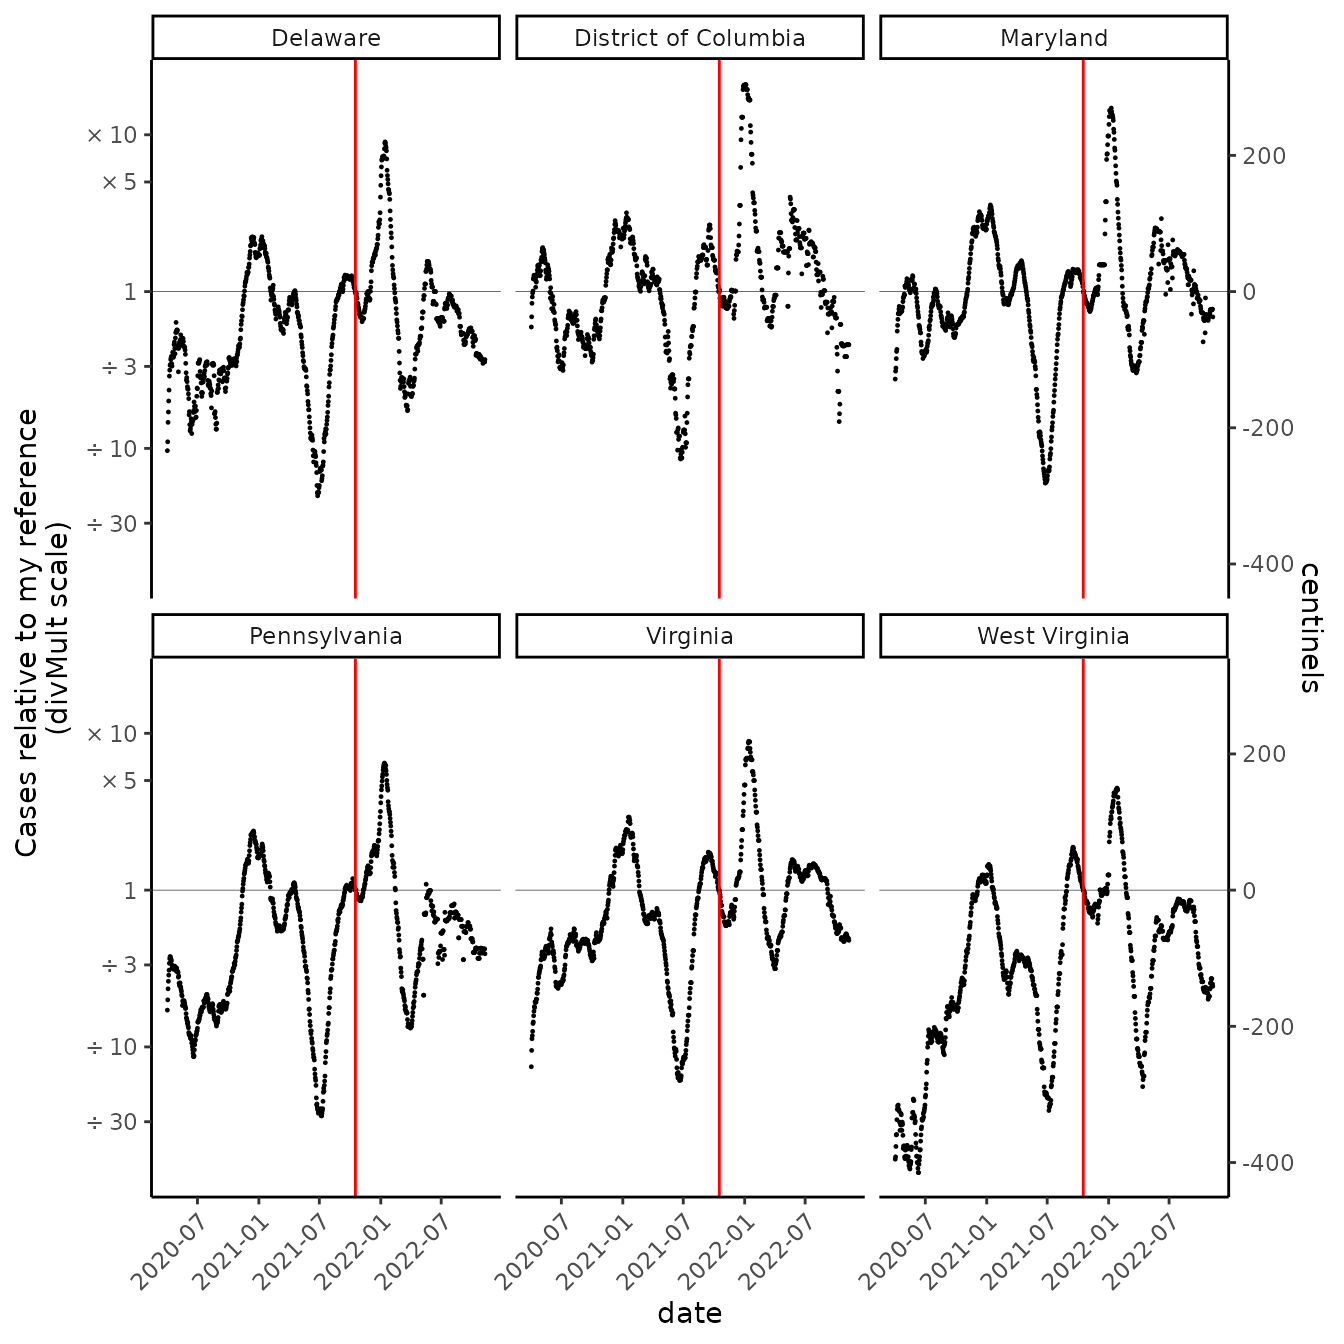
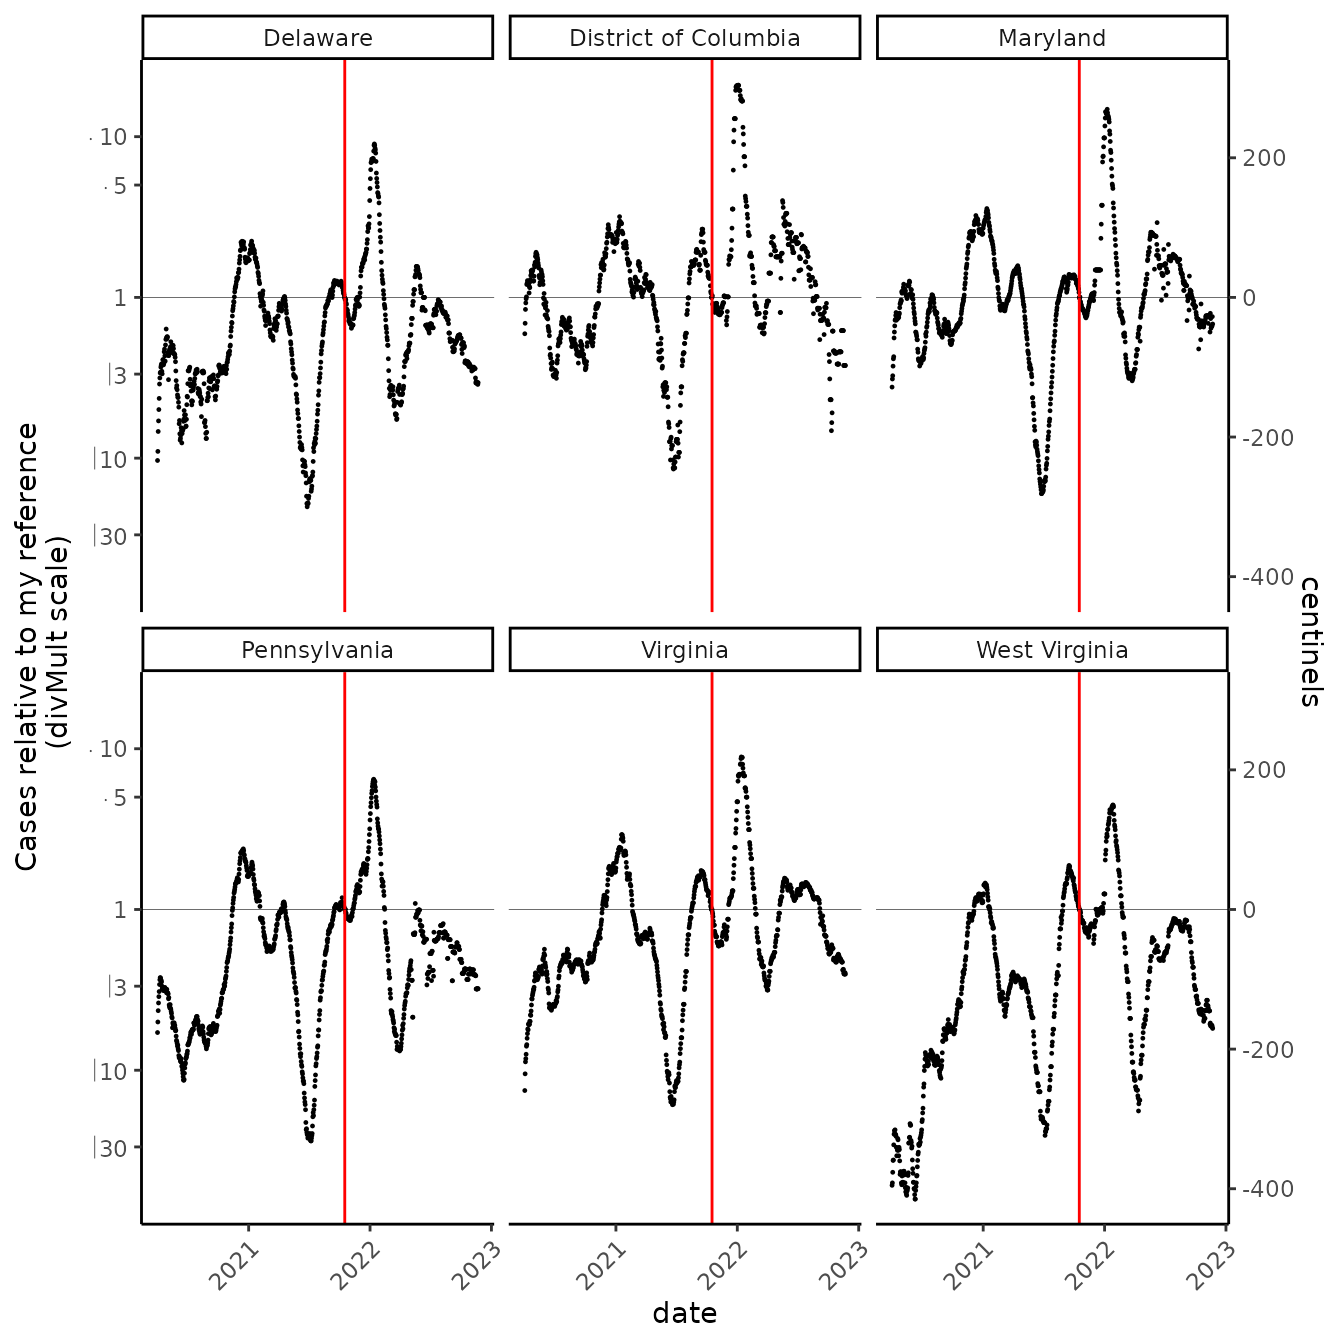
Built site for ratioScales: 0.0.1.000@d89cc9f

diff --git a/reference/scale_ratio.html b/reference/scale_ratio.html
@@ -59,7 +59,7 @@ may be especially useful for highlighting proportional changes."><!-- mathjax --
   <main id="main" class="col-md-9"><div class="page-header">
       <img src="" class="logo" alt=""><h1>Ratio-based position scales for continuous data (x &amp; y)</h1>
       
-      <div class="d-none name"><code>scale_y_ratio.Rd</code></div>
+      <div class="d-none name"><code>scale_ratio.Rd</code></div>
     </div>
 
     <div class="ref-description section level2">
@@ -74,7 +74,9 @@ may be especially useful for highlighting proportional changes.</p>
 
     <div class="section level2">
     <h2 id="ref-usage">Usage<a class="anchor" aria-label="anchor" href="#ref-usage"></a></h2>
-    <div class="sourceCode"><pre class="sourceCode r"><code><span><span class="fu">scale_y_ratio</span><span class="op">(</span>tickVal <span class="op">=</span> <span class="st">"divMult"</span>, splits <span class="op">=</span> <span class="fl">2</span>, <span class="va">...</span><span class="op">)</span></span></code></pre></div>
+    <div class="sourceCode"><pre class="sourceCode r"><code><span><span class="fu">scale_y_ratio</span><span class="op">(</span>tickVal <span class="op">=</span> <span class="st">"divMult"</span>, <span class="va">...</span><span class="op">)</span></span>
+<span></span>
+<span><span class="fu">scale_x_ratio</span><span class="op">(</span>tickVal <span class="op">=</span> <span class="st">"divMult"</span>, <span class="va">...</span><span class="op">)</span></span></code></pre></div>
     </div>
 
     <div class="section level2">
@@ -84,14 +86,10 @@ may be especially useful for highlighting proportional changes.</p>
 "centiNel"</p></dd>
 
 
-<dt>splits</dt>
-<dd><p>Integer, one of <code>c(1,2,3)</code>. How many tick marks per
-"decade?"</p></dd>
-
-
 <dt>...</dt>
 <dd><p>Additional arguments passed to
-<code><a href="https://ggplot2.tidyverse.org/reference/scale_continuous.html" class="external-link">scale_y_continuous</a></code></p></dd>
+<code><a href="https://ggplot2.tidyverse.org/reference/scale_continuous.html" class="external-link">scale_y_continuous</a></code> or other scale elements (e.g.,
+breaks, labels, etc. )</p></dd>
 
 </dl></div>
     <div class="section level2">
@@ -146,29 +144,30 @@ reference value in advance.</p>
 <span class="r-in"><span></span></span>
 <span class="r-in"><span><span class="va">bigger</span> <span class="op"><a href="pipe.html">%&gt;%</a></span>  <span class="fu">ggplot2</span><span class="fu">::</span><span class="fu"><a href="https://ggplot2.tidyverse.org/reference/ggplot.html" class="external-link">ggplot</a></span><span class="op">(</span><span class="fu">ggplot2</span><span class="fu">::</span><span class="fu"><a href="https://ggplot2.tidyverse.org/reference/aes.html" class="external-link">aes</a></span><span class="op">(</span><span class="va">x</span>,<span class="va">y</span><span class="op">)</span><span class="op">)</span> <span class="op">+</span></span></span>
 <span class="r-in"><span>     <span class="fu">ggplot2</span><span class="fu">::</span><span class="fu"><a href="https://ggplot2.tidyverse.org/reference/geom_point.html" class="external-link">geom_point</a></span><span class="op">(</span><span class="op">)</span> <span class="op">+</span></span></span>
-<span class="r-in"><span>     <span class="fu">ggplot2</span><span class="fu">::</span><span class="fu"><a href="https://ggplot2.tidyverse.org/reference/geom_abline.html" class="external-link">geom_hline</a></span><span class="op">(</span>yintercept <span class="op">=</span> <span class="fl">1</span>, size <span class="op">=</span> <span class="fl">0.2</span><span class="op">)</span> <span class="op">+</span></span></span>
+<span class="r-in"><span>     <span class="fu">ggplot2</span><span class="fu">::</span><span class="fu"><a href="https://ggplot2.tidyverse.org/reference/geom_abline.html" class="external-link">geom_hline</a></span><span class="op">(</span>yintercept <span class="op">=</span> <span class="fl">1</span>, linewidth <span class="op">=</span> <span class="fl">0.2</span><span class="op">)</span> <span class="op">+</span></span></span>
 <span class="r-in"><span>     <span class="fu">scale_y_ratio</span><span class="op">(</span>tickVal <span class="op">=</span> <span class="st">"divMult"</span></span></span>
 <span class="r-in"><span>     , slashStar <span class="op">=</span> <span class="cn">TRUE</span></span></span>
-<span class="r-in"><span>     , sec.axis <span class="op">=</span> <span class="va">ax2</span><span class="op">)</span> <span class="op">+</span></span></span>
+<span class="r-in"><span>     , sec.axis <span class="op">=</span> <span class="va">ax2</span></span></span>
+<span class="r-in"><span>     <span class="op">)</span> <span class="op">+</span></span></span>
 <span class="r-in"><span>        <span class="fu">ggplot2</span><span class="fu">::</span><span class="fu"><a href="https://ggplot2.tidyverse.org/reference/labs.html" class="external-link">labs</a></span><span class="op">(</span>y <span class="op">=</span> <span class="st">"divMult scale (fold change)"</span><span class="op">)</span></span></span>
-<span class="r-plt img"><img src="scale_y_ratio-1.png" alt="" width="700" height="433"></span>
+<span class="r-plt img"><img src="scale_ratio-1.png" alt="" width="700" height="433"></span>
 <span class="r-in"><span></span></span>
 <span class="r-in"><span><span class="va">smaller</span> <span class="op"><a href="pipe.html">%&gt;%</a></span>  <span class="fu">ggplot2</span><span class="fu">::</span><span class="fu"><a href="https://ggplot2.tidyverse.org/reference/ggplot.html" class="external-link">ggplot</a></span><span class="op">(</span><span class="fu">ggplot2</span><span class="fu">::</span><span class="fu"><a href="https://ggplot2.tidyverse.org/reference/aes.html" class="external-link">aes</a></span><span class="op">(</span><span class="va">x</span>,<span class="va">y</span><span class="op">)</span><span class="op">)</span> <span class="op">+</span></span></span>
 <span class="r-in"><span>     <span class="fu">ggplot2</span><span class="fu">::</span><span class="fu"><a href="https://ggplot2.tidyverse.org/reference/geom_point.html" class="external-link">geom_point</a></span><span class="op">(</span><span class="op">)</span> <span class="op">+</span></span></span>
 <span class="r-in"><span>     <span class="fu">scale_y_ratio</span><span class="op">(</span>tickVal <span class="op">=</span> <span class="st">"centiNel"</span></span></span>
-<span class="r-in"><span>     , sec.axis <span class="op">=</span> <span class="va">ax2</span></span></span>
+<span class="r-in"><span>    , sec.axis <span class="op">=</span> <span class="va">ax2</span></span></span>
 <span class="r-in"><span>     <span class="op">)</span> <span class="op">+</span></span></span>
 <span class="r-in"><span>        <span class="fu">ggplot2</span><span class="fu">::</span><span class="fu"><a href="https://ggplot2.tidyverse.org/reference/labs.html" class="external-link">labs</a></span><span class="op">(</span>y <span class="op">=</span> <span class="st">"centiNels"</span><span class="op">)</span></span></span>
-<span class="r-plt img"><img src="scale_y_ratio-2.png" alt="" width="700" height="433"></span>
+<span class="r-plt img"><img src="scale_ratio-2.png" alt="" width="700" height="433"></span>
 <span class="r-in"><span></span></span>
 <span class="r-in"><span><span class="co"># propDiff is a little strange</span></span></span>
 <span class="r-in"><span><span class="va">bigger</span> <span class="op"><a href="pipe.html">%&gt;%</a></span>  <span class="fu">ggplot2</span><span class="fu">::</span><span class="fu"><a href="https://ggplot2.tidyverse.org/reference/ggplot.html" class="external-link">ggplot</a></span><span class="op">(</span><span class="fu">ggplot2</span><span class="fu">::</span><span class="fu"><a href="https://ggplot2.tidyverse.org/reference/aes.html" class="external-link">aes</a></span><span class="op">(</span><span class="va">x</span>,<span class="va">y</span><span class="op">)</span><span class="op">)</span> <span class="op">+</span></span></span>
 <span class="r-in"><span>     <span class="fu">ggplot2</span><span class="fu">::</span><span class="fu"><a href="https://ggplot2.tidyverse.org/reference/geom_point.html" class="external-link">geom_point</a></span><span class="op">(</span><span class="op">)</span> <span class="op">+</span></span></span>
 <span class="r-in"><span>     <span class="fu">scale_y_ratio</span><span class="op">(</span>tickVal <span class="op">=</span> <span class="st">"propDiff"</span></span></span>
-<span class="r-in"><span>     , sec.axis <span class="op">=</span> <span class="va">ax2</span></span></span>
+<span class="r-in"><span>   , sec.axis <span class="op">=</span> <span class="va">ax2</span></span></span>
 <span class="r-in"><span>        <span class="op">)</span> <span class="op">+</span></span></span>
 <span class="r-in"><span>        <span class="fu">ggplot2</span><span class="fu">::</span><span class="fu"><a href="https://ggplot2.tidyverse.org/reference/labs.html" class="external-link">labs</a></span><span class="op">(</span>y <span class="op">=</span> <span class="st">"propDiff (proportional difference) scale"</span><span class="op">)</span></span></span>
-<span class="r-plt img"><img src="scale_y_ratio-3.png" alt="" width="700" height="433"></span>
+<span class="r-plt img"><img src="scale_ratio-3.png" alt="" width="700" height="433"></span>
 <span class="r-in"><span></span></span>
 <span class="r-in"><span><span class="co"># percDiff should be familiar</span></span></span>
 <span class="r-in"><span><span class="va">smaller</span> <span class="op"><a href="pipe.html">%&gt;%</a></span>  <span class="fu">ggplot2</span><span class="fu">::</span><span class="fu"><a href="https://ggplot2.tidyverse.org/reference/ggplot.html" class="external-link">ggplot</a></span><span class="op">(</span><span class="fu">ggplot2</span><span class="fu">::</span><span class="fu"><a href="https://ggplot2.tidyverse.org/reference/aes.html" class="external-link">aes</a></span><span class="op">(</span><span class="va">x</span>,<span class="va">y</span><span class="op">)</span><span class="op">)</span> <span class="op">+</span></span></span>
@@ -176,7 +175,8 @@ reference value in advance.</p>
 <span class="r-in"><span>     <span class="fu">scale_y_ratio</span><span class="op">(</span>tickVal <span class="op">=</span> <span class="st">"percDiff"</span></span></span>
 <span class="r-in"><span>     , sec.axis <span class="op">=</span> <span class="va">ax2</span><span class="op">)</span> <span class="op">+</span></span></span>
 <span class="r-in"><span>        <span class="fu">ggplot2</span><span class="fu">::</span><span class="fu"><a href="https://ggplot2.tidyverse.org/reference/labs.html" class="external-link">labs</a></span><span class="op">(</span>y <span class="op">=</span> <span class="st">"propDiff (perentage difference) scale"</span><span class="op">)</span></span></span>
-<span class="r-plt img"><img src="scale_y_ratio-4.png" alt="" width="700" height="433"></span>
+<span class="r-plt img"><img src="scale_ratio-4.png" alt="" width="700" height="433"></span>
+<span class="r-in"><span></span></span>
 </code></pre></div>
     </div>
   </main><aside class="col-md-3"><nav id="toc"><h2>On this page</h2>

diff --git a/index.html b/index.html
@@ -147,7 +147,7 @@
 <span>   <span class="fu">geom_point</span><span class="op">(</span><span class="op">)</span> <span class="op">+</span></span>
 <span>   <span class="fu">scale_color_manual</span><span class="op">(</span>values <span class="op">=</span> <span class="fu"><a href="https://rdrr.io/r/grDevices/palettes.html" class="external-link">hcl.colors</a></span><span class="op">(</span><span class="fl">4</span>, <span class="st">"Plasma"</span><span class="op">)</span><span class="op">[</span><span class="fu"><a href="https://rdrr.io/r/base/c.html" class="external-link">c</a></span><span class="op">(</span><span class="fl">1</span>,<span class="fl">2</span><span class="op">)</span><span class="op">]</span><span class="op">)</span> <span class="op">+</span></span>
 <span>  <span class="co"># FUNCTION FROM ratioScales</span></span>
-<span>   <span class="fu"><a href="reference/scale_y_ratio.html">scale_y_ratio</a></span><span class="op">(</span>tickVal <span class="op">=</span> <span class="st">"divMult"</span>, n <span class="op">=</span> <span class="fl">12</span>, nmin <span class="op">=</span> <span class="fl">12</span>, slashStar <span class="op">=</span> <span class="cn">FALSE</span><span class="op">)</span> <span class="op">+</span></span>
+<span>   <span class="fu"><a href="reference/scale_ratio.html">scale_y_ratio</a></span><span class="op">(</span>tickVal <span class="op">=</span> <span class="st">"divMult"</span>, n <span class="op">=</span> <span class="fl">12</span>, nmin <span class="op">=</span> <span class="fl">12</span>, slashStar <span class="op">=</span> <span class="cn">FALSE</span><span class="op">)</span> <span class="op">+</span></span>
 <span>   <span class="fu">labs</span><span class="op">(</span>y <span class="op">=</span> <span class="st">"multiplicative change in exchange rate"</span><span class="op">)</span> </span></code></pre></div>
 <p><img src="reference/figures/README-divMult_example-1.png" width="50%"></p>
 <p>Prefer percentage differences? Also ok, if you use an appropriate scale:</p>
@@ -163,7 +163,7 @@
 <span>   <span class="fu">geom_point</span><span class="op">(</span><span class="op">)</span> <span class="op">+</span></span>
 <span>   <span class="fu">scale_color_manual</span><span class="op">(</span>values <span class="op">=</span> <span class="fu"><a href="https://rdrr.io/r/grDevices/palettes.html" class="external-link">hcl.colors</a></span><span class="op">(</span><span class="fl">4</span>, <span class="st">"Plasma"</span><span class="op">)</span><span class="op">[</span><span class="fu"><a href="https://rdrr.io/r/base/c.html" class="external-link">c</a></span><span class="op">(</span><span class="fl">1</span>,<span class="fl">2</span><span class="op">)</span><span class="op">]</span><span class="op">)</span> <span class="op">+</span></span>
 <span>    <span class="co"># FUNCTION FROM ratioScales</span></span>
-<span>   <span class="fu"><a href="reference/scale_y_ratio.html">scale_y_ratio</a></span><span class="op">(</span>tickVal <span class="op">=</span> <span class="st">"percDiff"</span><span class="op">)</span> <span class="op">+</span></span>
+<span>   <span class="fu"><a href="reference/scale_ratio.html">scale_y_ratio</a></span><span class="op">(</span>tickVal <span class="op">=</span> <span class="st">"percDiff"</span><span class="op">)</span> <span class="op">+</span></span>
 <span>   <span class="fu">labs</span><span class="op">(</span>y <span class="op">=</span> <span class="st">"percentage difference in exchange rate"</span><span class="op">)</span> </span></code></pre></div>
 <p><img src="reference/figures/README-percDiff_example-1.png" width="50%"></p>
 <!-- some comments here to keep track of 

diff --git a/articles/centiNels.html b/articles/centiNels.html
@@ -203,7 +203,7 @@ But first, let’s plot with centinels!</p>
 <span>    , color <span class="op">=</span> <span class="st">"black"</span><span class="op">)</span> <span class="op">+</span></span>
 <span>  <span class="fu"><a href="https://ggplot2.tidyverse.org/reference/scale_manual.html" class="external-link">scale_color_manual</a></span><span class="op">(</span>values <span class="op">=</span> <span class="fu"><a href="https://rdrr.io/r/grDevices/palettes.html" class="external-link">hcl.colors</a></span><span class="op">(</span><span class="fl">4</span>, <span class="st">"Plasma"</span><span class="op">)</span><span class="op">[</span><span class="fu"><a href="https://rdrr.io/r/base/c.html" class="external-link">c</a></span><span class="op">(</span><span class="fl">1</span>,<span class="fl">2</span><span class="op">)</span><span class="op">]</span><span class="op">)</span> <span class="op">+</span></span>
 <span>  <span class="fu"><a href="https://ggplot2.tidyverse.org/reference/labs.html" class="external-link">labs</a></span><span class="op">(</span>y <span class="op">=</span> <span class="st">"difference in exchange rate \n(centinels)"</span>, main <span class="op">=</span> <span class="st">"logarithmic scale"</span><span class="op">)</span> <span class="op">+</span></span>
-<span>  <span class="fu"><a href="../reference/scale_y_ratio.html">scale_y_ratio</a></span><span class="op">(</span>tickVal <span class="op">=</span> <span class="st">"centiNel"</span><span class="op">)</span></span>
+<span>  <span class="fu"><a href="../reference/scale_ratio.html">scale_y_ratio</a></span><span class="op">(</span>tickVal <span class="op">=</span> <span class="st">"centiNel"</span><span class="op">)</span></span>
 <span><span class="co">#&gt; Warning in geom_hline(yintercept = 1, width = 0.2): Ignoring unknown</span></span>
 <span><span class="co">#&gt; parameters: `width`</span></span>
 <span><span class="co">#&gt; Warning: Removed 46 rows containing missing values (`geom_point()`).</span></span></code></pre></div>

diff --git a/articles/Ratio_scales_and_centinels.html b/articles/Ratio_scales_and_centinels.html
@@ -280,7 +280,7 @@
 <span>  <span class="fu"><a href="https://ggplot2.tidyverse.org/reference/facet_wrap.html" class="external-link">facet_wrap</a></span><span class="op">(</span><span class="op">~</span><span class="va">state</span><span class="op">)</span> <span class="op">+</span></span>
 <span>  <span class="fu"><a href="https://ggplot2.tidyverse.org/reference/geom_abline.html" class="external-link">geom_vline</a></span><span class="op">(</span>xintercept <span class="op">=</span> <span class="fu"><a href="https://rdrr.io/r/base/as.Date.html" class="external-link">as.Date</a></span><span class="op">(</span><span class="st">"2021-10-17"</span><span class="op">)</span>, color <span class="op">=</span> <span class="st">"red"</span><span class="op">)</span> <span class="op">+</span></span>
 <span>  <span class="fu"><a href="https://ggplot2.tidyverse.org/reference/scale_date.html" class="external-link">scale_x_date</a></span><span class="op">(</span><span class="op">)</span> <span class="op">+</span></span>
-<span>  <span class="fu"><a href="../reference/scale_y_ratio.html">scale_y_ratio</a></span><span class="op">(</span></span>
+<span>  <span class="fu"><a href="../reference/scale_ratio.html">scale_y_ratio</a></span><span class="op">(</span></span>
 <span>   tickVal <span class="op">=</span> <span class="st">"divMult"</span></span>
 <span>    , slashStar <span class="op">=</span> <span class="cn">FALSE</span></span>
 <span>    , sec.axis <span class="op">=</span> <span class="fu"><a href="https://ggplot2.tidyverse.org/reference/sec_axis.html" class="external-link">sec_axis</a></span><span class="op">(</span> trans <span class="op">=</span> <span class="op">~</span><span class="fu"><a href="https://rdrr.io/r/base/Log.html" class="external-link">log</a></span><span class="op">(</span><span class="va">.</span><span class="op">)</span><span class="op">*</span><span class="fl">100</span></span>

diff --git a/reference/divMult_trans.html b/reference/divMult_trans.html
@@ -56,7 +56,7 @@
 
     <div class="section level2">
     <h2 id="ref-usage">Usage<a class="anchor" aria-label="anchor" href="#ref-usage"></a></h2>
-    <div class="sourceCode"><pre class="sourceCode r"><code><span><span class="fu">divMult_trans</span><span class="op">(</span>n <span class="op">=</span> <span class="fl">7</span>, base <span class="op">=</span> <span class="fu"><a href="https://rdrr.io/r/base/Log.html" class="external-link">exp</a></span><span class="op">(</span><span class="fl">1</span><span class="op">)</span>, <span class="va">...</span><span class="op">)</span></span></code></pre></div>
+    <div class="sourceCode"><pre class="sourceCode r"><code><span><span class="fu">divMult_trans</span><span class="op">(</span>n <span class="op">=</span> <span class="fl">7</span>, base <span class="op">=</span> <span class="fu"><a href="https://rdrr.io/r/base/Log.html" class="external-link">exp</a></span><span class="op">(</span><span class="fl">1</span><span class="op">)</span>, splits <span class="op">=</span> <span class="fl">2</span>, slashStar <span class="op">=</span> <span class="cn">TRUE</span>, <span class="va">...</span><span class="op">)</span></span></code></pre></div>
     </div>
 
     <div class="section level2">
@@ -68,6 +68,18 @@
 <dt>base</dt>
 <dd><p>a positive or complex number: the base with respect to which
     logarithms are computed.  Defaults to \(e\)=<code>exp(1)</code>.</p></dd>
+
+
+<dt>splits</dt>
+<dd><p>Integer, one of <code>c(1,2,3)</code>. How many tick marks per
+"decade?"</p></dd>
+
+
+<dt>slashStar</dt>
+<dd><p>Logical, should division and mulitplication symbols be "*"
+and "/" (default). Prettier symbols \(\times, \div\) are available when
+<code>slashStar == FALSE</code>, but font libraries and text size may make
+distinguishing \(\div\) from \(+\) difficult.</p></dd>
 
 
 <dt>...</dt>

diff --git a/reference/index.html b/reference/index.html
@@ -61,7 +61,7 @@
 
       <dl><dt>
           
-          <code><a href="scale_y_ratio.html">scale_y_ratio()</a></code> 
+          <code><a href="scale_ratio.html">scale_y_ratio()</a></code> <code><a href="scale_ratio.html">scale_x_ratio()</a></code> 
         </dt>
         <dd>Ratio-based position scales for continuous data (x &amp; y)</dd>
       </dl></div><div class="section level2">
